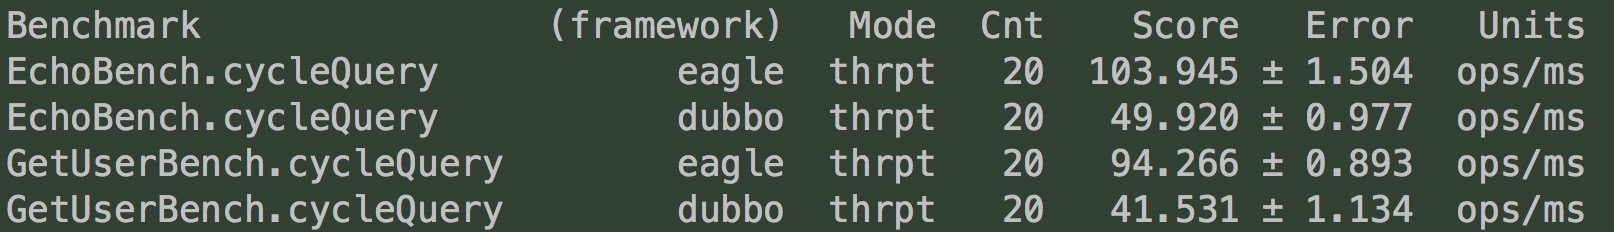
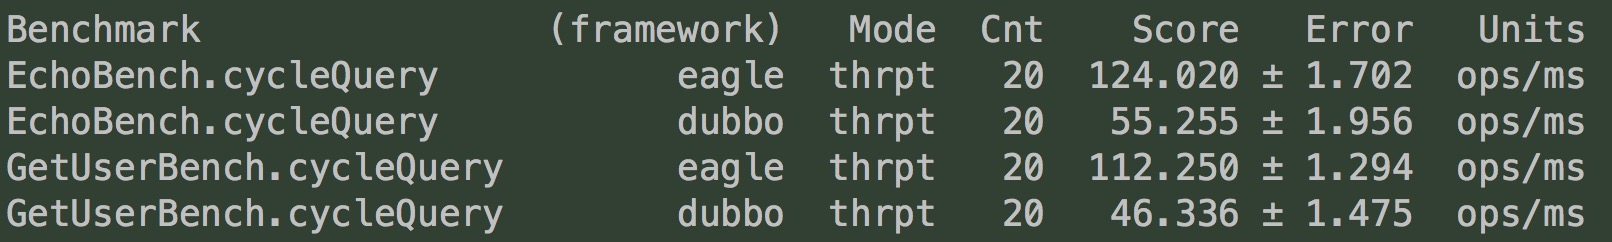
增加benchmark在linux上运行结果

diff --git a/README.md b/README.md
@@ -27,7 +27,7 @@ Eagle是一个分布式的RPC框架，支持灵活的配置，支持[Kryo][kryo]
    
    ![Image text](https://raw.githubusercontent.com/fang-yan-peng/eagle/master/benchmark_mac.jpeg)
 
-> linux上的结果（64g内存，24核），启动24个线程。
+> linux上的结果（64g内存，24核），启动40个线程。
    
    ![Image text](https://raw.githubusercontent.com/fang-yan-peng/eagle/master/benchmark_linux.jpeg)
 
